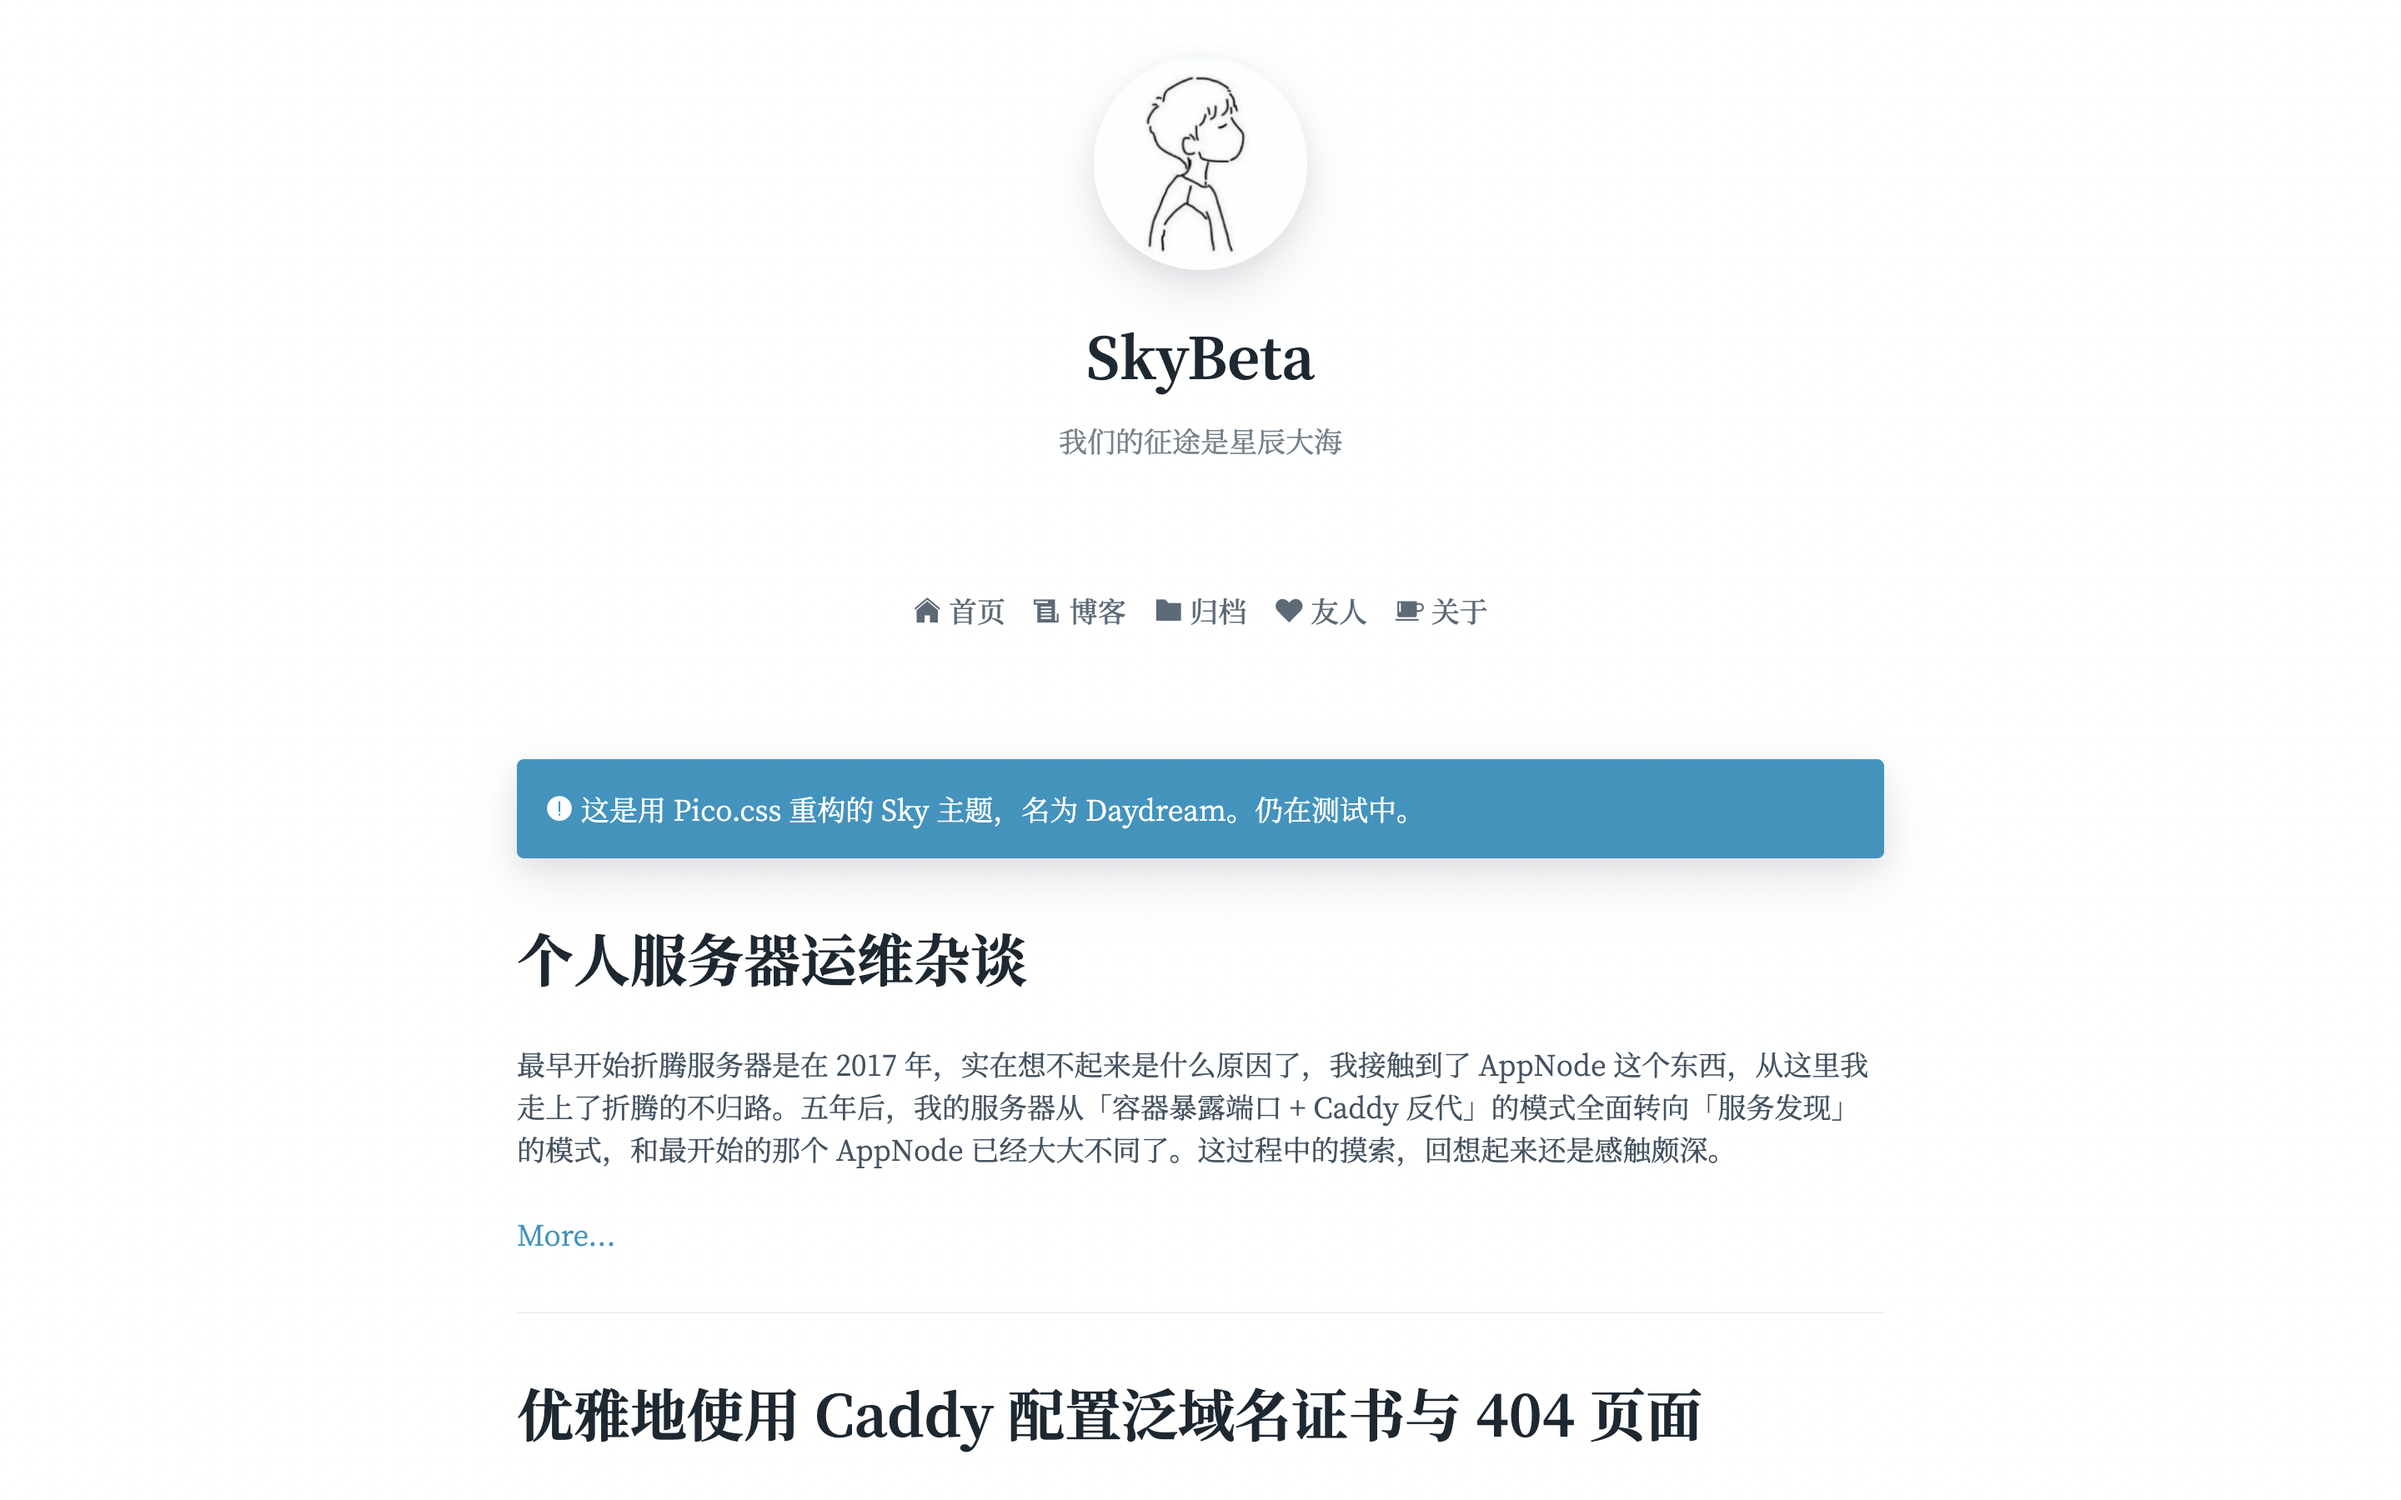
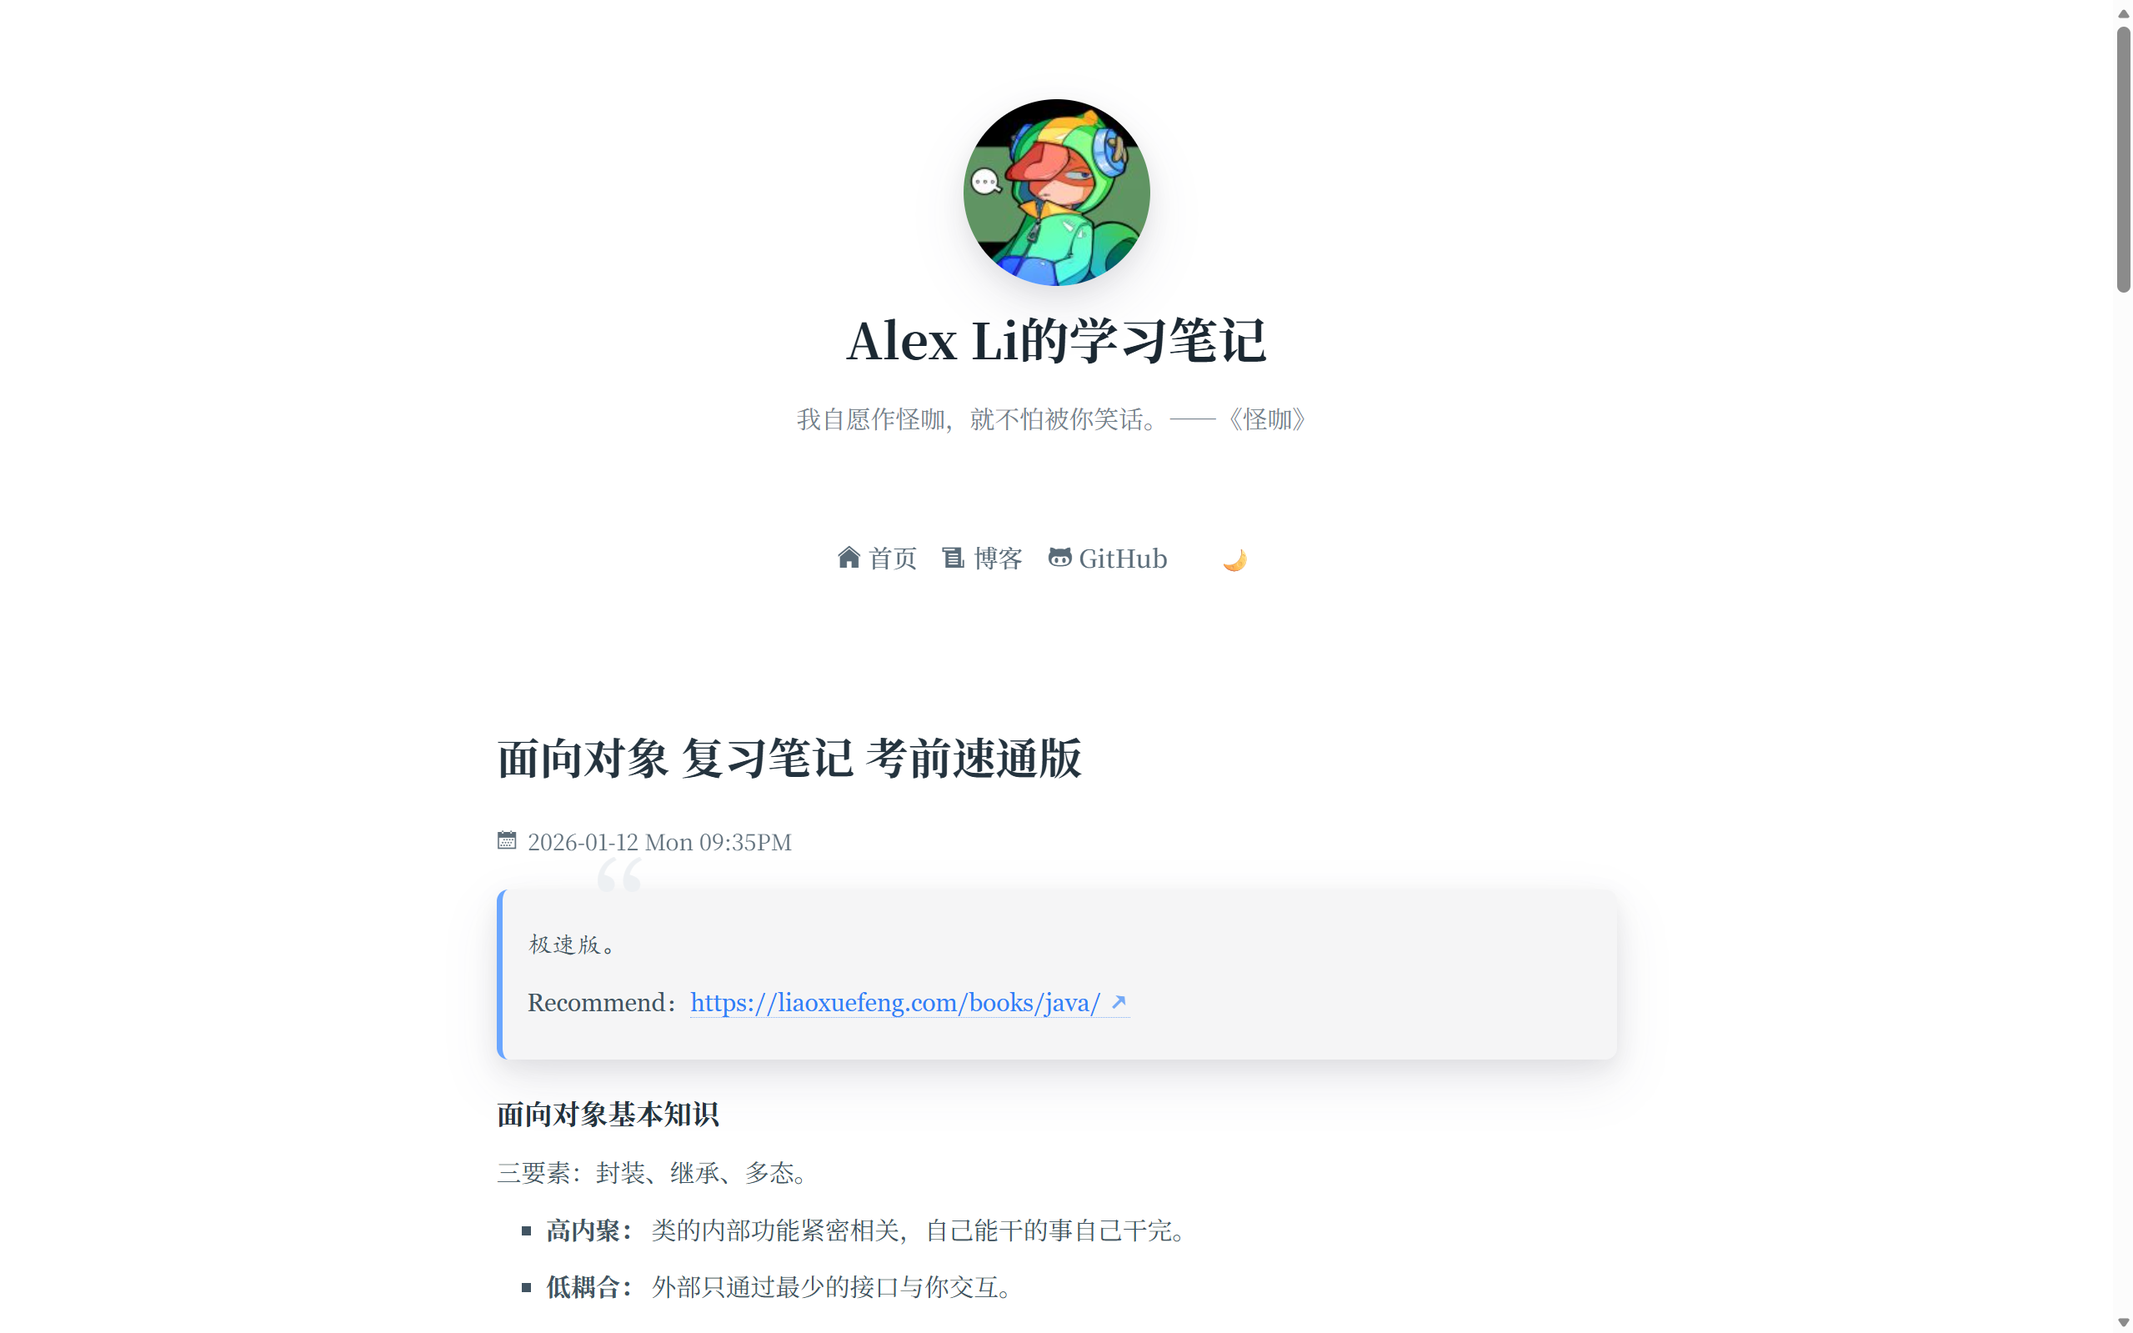
docs: 恢复原仓库 README 与预览截图
- README 换回 RelaxTheme 原版介绍（英文 + 中文）
- screenshot.png 改为原 README 的 OSS 预览图（2559×1599，替换 Daydream 旧截图）
- 末尾补一行 docs/README.md 配置文档入口

diff --git a/README.md b/README.md
@@ -1,81 +1,10 @@
-# Daydream ✨
+# RelaxTheme
+A minimalist, typography-focused Typecho theme designed for study notes and technical writing. Features include a clean layout, built-in dark mode, enhanced styling for code blocks and math formulas, plus convenient reading tools like a Table of Contents.
 
-![screenshot.png](./screenshot.png)
+> 一款极简、注重排版的 Typecho 主题，专为学习笔记与技术写作设计。特点包括清爽的布局、内置深色模式，对代码块和数学公式进行了样式美化，并提供文章目录等便捷阅读工具。
 
-Daydream 是一个简洁轻盈的 Typecho 主题。
+![1768922710357.png](https://2bpic.oss-cn-beijing.aliyuncs.com/2026/01/20/696f9e5c8cc2e.png)
 
-Demo：[beta.skywt.cn](https://beta.skywt.cn/)
+Edited from Theme https://github.com/Skywt2003/Daydream
 
-## 特性 / Features
-
-- 极简单栏设计。精心调校的字体与排版显示，简洁美观。
-- 使用 pico.css 重构，轻盈快速。
-- 全站 PJAX 无刷新，极速响应。
-- 支持显示文章头图、显示发布地点、页面重定向、导航栏显示小图标等适合作为个人博客的功能。
-- 集成图片灯箱，代码高亮，KaTeX 数学公式，TOC，暗色模式，评论 UA、归属地显示，字数统计等一大堆功能，all-in-one。
-
-## 安装 / Installation
-
-克隆或下载 master 分支下的代码，将文件夹命名为 Daydream（注意首字母大写），并移动到 Typecho 主题目录，在 Typecho 后台启用主题。
-
-也可以前往 Releases 下载源代码压缩包，解压后将文件夹重命名为 Daydream（注意首字母大写），并移动到 Typecho 主题目录，在 Typecho 后台启用主题。
-
-在使用本主题时，**请勿移除网页底部的署名链接**。移除版权声明是违反 GPL 3.0 协议的。请尊重他人的劳动成果。
-
-## 使用 / Usage
-
-**请在 Typecho 后台的「设置」-「评论」-「评论提交」中取消勾选「开启反垃圾保护」，否则将无法正常发表评论**。关闭该选项后，Typecho 评论区将会关闭反 CSRF 防护，建议结合其他反垃圾评论策略或插件。
-
-建议在「控制台」-「外观」-「设置外观」中进行主题的相关设置。
-
-### 关于「文章摘要」
-
-请在文章中手动插入 `<!--more-->` 标签，或者使用 Typecho 自带文章编辑器里的「摘要分隔线」按钮插入。
-
-一篇文章中，`<!--more-->` 之前的部分会被视为摘要，在博客文章列表页面，每篇文章只展示标题、摘要和「阅读更多」链接（引向全文）。这是源于 WordPress 的做法。如果不添加此标签，则文章列表页面中，每篇文章都会显示全文。
-
-### 关于站点图标
-
-网站在浏览器标签页上显示的小图标，是主题目录下的 favicon.ico 这一文件（并不是「设置外观」中的「站点 LOGO 地址」）。请在安装主题后，自行替换该图标文件为自己的图标。
-
-此外，该图标可能会被浏览器缓存，如果替换文件后刷新网站没有生效，请尝试清空浏览器缓存后再刷新。
-
-### 关于 KaTeX
-
-本主题支持 KaTeX 渲染数学公式。遵从常规的 Markdown 写法，在写作中一对单个美元符号 `$` 中的是行内公式，一对两个美元符号 `$$` 中的是单行公式。
-
-### 关于暗黑模式（Darkmode）
-
-本主题支持暗黑模式。在暗黑模式下，背景会显示为暗色，文字会显示为白色（这是 pico.css 提供的特性）。
-
-暗黑模式的开关跟随浏览器的设置，没有提供手动调整的按钮。（主要是很难在不破坏主题简洁性的情况下设计这样一个单独的按钮。如有创意欢迎沟通。）
-
-### 关于评论区的头像
-
-评论区的头像根据评论者的邮箱获取。规则如下：
-
-- 如果评论者使用包含 QQ 号的 QQ 邮箱，则会尝试获取 QQ 头像；
-- 否则，尝试根据邮箱获取 Gravatar 头像（使用 Gravatar 的国内镜像）；
-- 否则，使用默认头像。
-
-### 兼容性建议
-
-- 主题已引用 jQuery，插件无需再次引用。
-- 集成了 KaTeX ，不建议使用其他数学公式插件。
-- 集成了 Highlight.js，不建议使用其他代码高亮插件。
-- 集成了 jQuery Fancybox 图片灯箱功能，不建议使用其他图片灯箱类插件。
-- 自带了生成文章目录（Table of Contents）的代码，不建议使用其他 TOC 插件。
-- 自带了显示评论 UA 和 IP 归属地的功能，不需要使用与此相关的插件。
-- 默认支持 Darkmode，不建议使用其他启用 Darkmode 插件。
-
-### 已知问题
-
-- 由于 Safari 浏览器的兼容性问题，点击文章目录（TOC）的链接时，无法平滑跳转，并且跳转到的位置有一定偏移。
-- 对于「密码保护」的页面或文章，输入密码的 UI 没有优化，所以非常丑。我自己用不到这个功能，欢迎 PR。
-- 不考虑支持 IE 浏览器。
-
-## 协议 / License
-
-本主题使用 [GNU GPL v3](https://choosealicense.com/licenses/gpl-3.0/) 协议。
-
-在使用本主题时，**请勿移除网页底部的署名链接**。移除版权声明是违反 GPL 3.0 协议的。请尊重他人的劳动成果。
+详细配置说明见 [docs/README.md](docs/README.md)。
